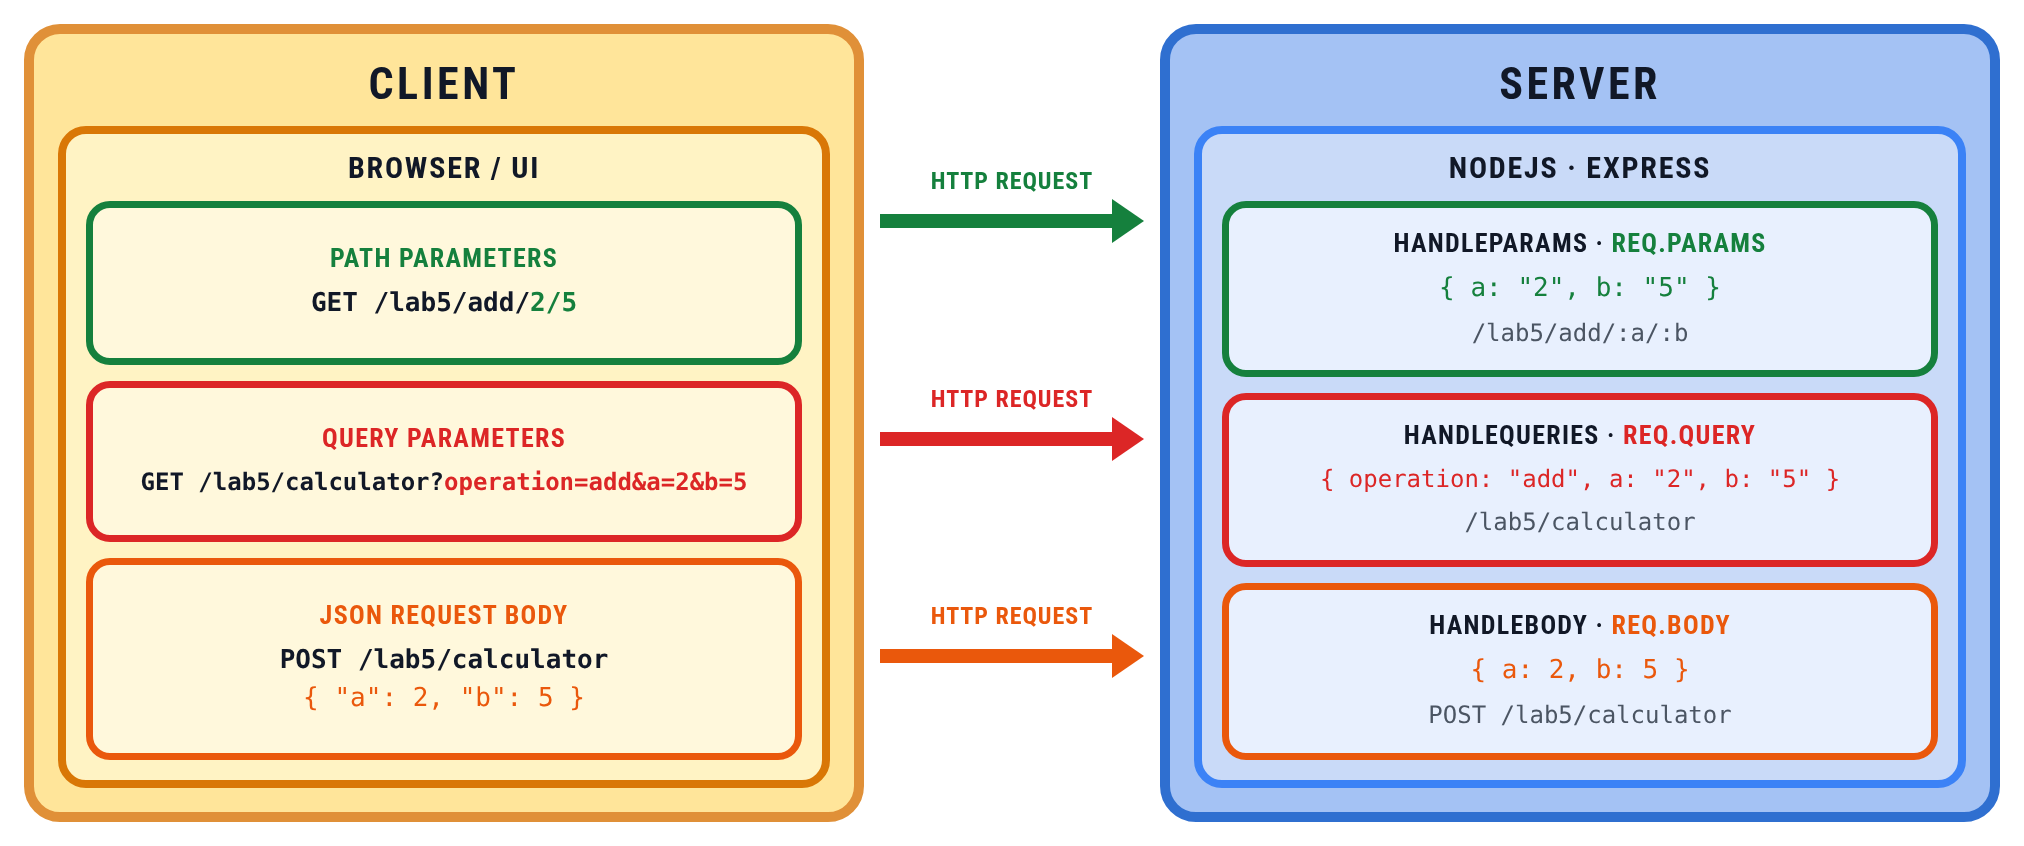
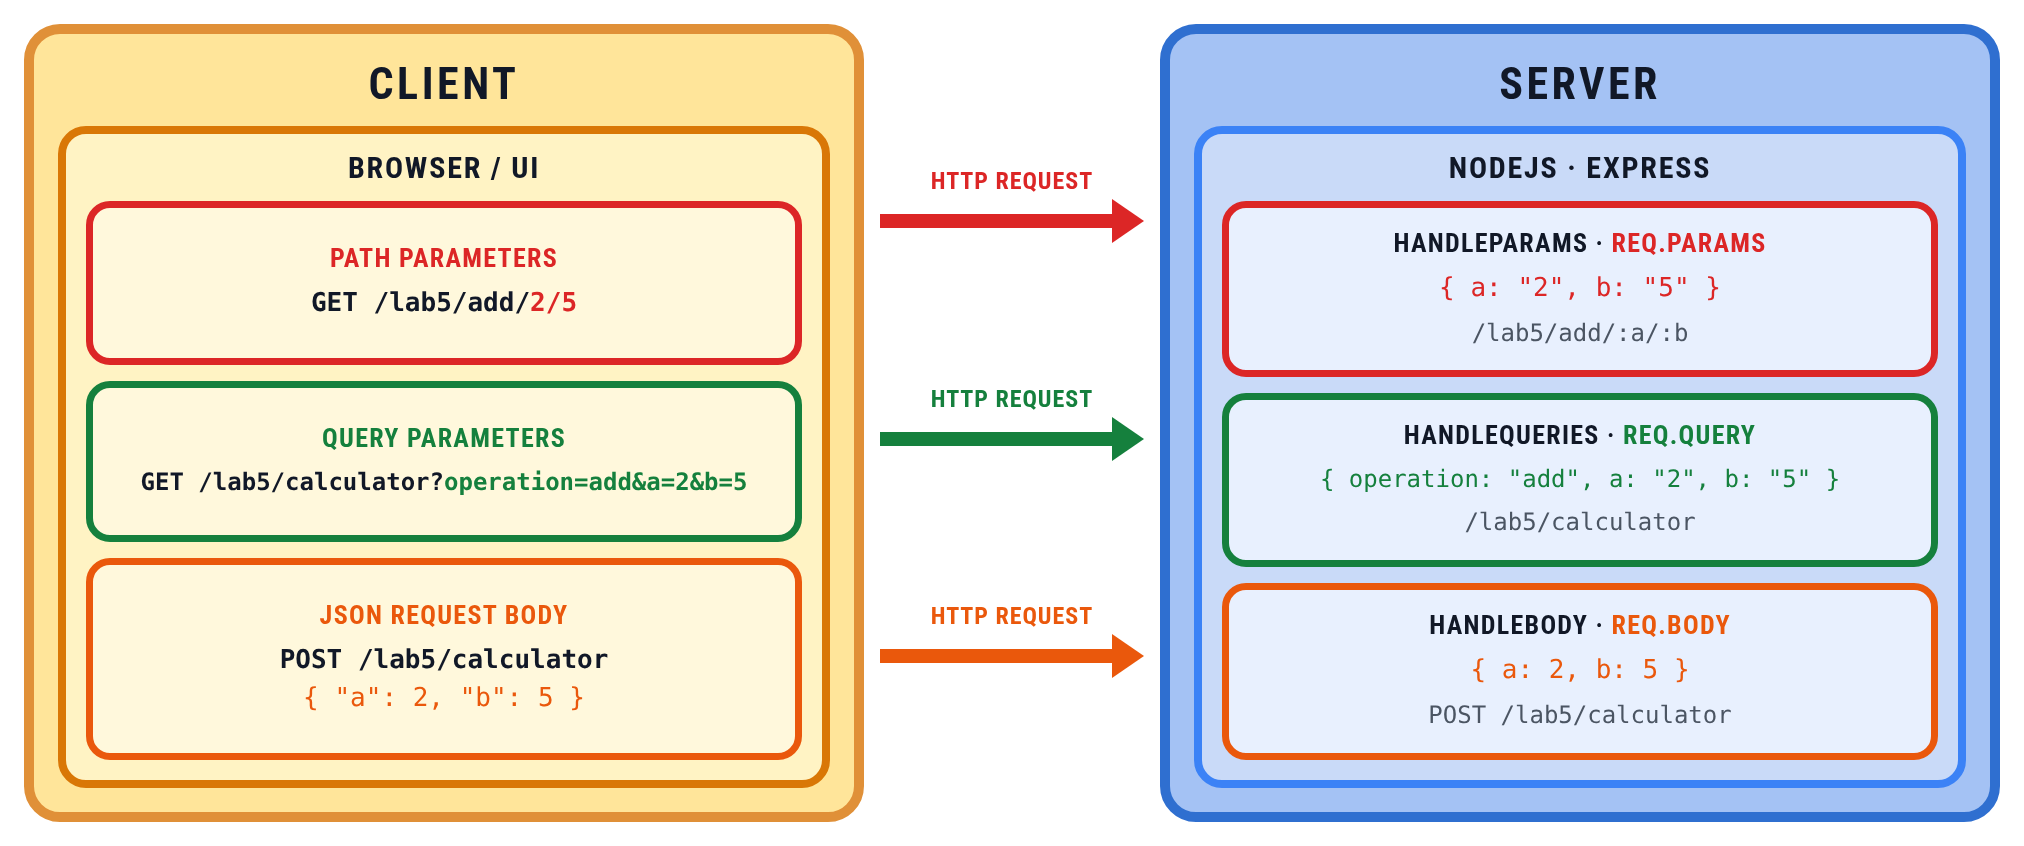
Enlarge request diagrams and split the HTTP verb bullet.
Overwrite the path-and-query overview with path in red, query in green, and body in orange. Raise the diagram cap 25% without changing bullet type, move the todos diagram onto the linking slide, and give POST, PUT, and DELETE their own bullets.

diff --git a/lib/lectures/lectures.test.ts b/lib/lectures/lectures.test.ts
@@ -3653,7 +3653,7 @@ describe("lecture decks", () => {
       ["remote-objects", "assignment-intro", "/lectures/remote-objects/remote-objects-slide4-diagram.png"],
       ["remote-objects", "title-get", "/lectures/remote-objects/remote-objects-slide7-diagram.png"],
       ["remote-objects", "title-put", "/lectures/remote-objects/remote-objects-slide9-diagram.png"],
-      ["remote-arrays", "get-all", "/lectures/remote-arrays/remote-arrays-slide2-diagram.png"],
+      ["remote-arrays", "client", "/lectures/remote-arrays/remote-arrays-slide2-diagram.png"],
       ["remote-arrays", "id-how", "/lectures/remote-arrays/remote-arrays-slide5-diagram.png"],
       ["remote-arrays", "client-filter", "/lectures/remote-arrays/remote-arrays-slide9-diagram.png"],
       ["remote-arrays", "create-delete-intro", "/lectures/remote-arrays/remote-arrays-slide10-diagram.png"],
@@ -3666,8 +3666,9 @@ describe("lecture decks", () => {
       assert.equal(slide.imageSrc, src, `${slug}#${id}`);
       assert.match(slide.imageAlt ?? "", /\S/);
     }
-    // #slide-2 is the purpose slide; the GET /lab5/todos figure belongs on get-all.
+    // #slide-2 is purpose and #slide-3 is the get-all code. The GET /lab5/todos figure is on the next slide.
     assert.equal(findSlide("remote-arrays", "purpose").imageSrc, undefined);
+    assert.equal(findSlide("remote-arrays", "get-all").imageSrc, undefined);
     const routes = getLectureDeck("next-routes")!.slides.map((slide) => slide.id);
     const hello = routes.indexOf("hello-ui");
     assert.equal(routes[hello - 1], "fetch");

diff --git a/app/book/book.css b/app/book/book.css
@@ -1065,7 +1065,8 @@ html.lecture-presenting body {
 .lecture-slide[data-flow-diagram="below"] {
   display: flex;
   flex-direction: column;
-  overflow: hidden;
+  overflow-x: hidden;
+  overflow-y: auto;
 }
 
 .lecture-slide[data-flow-diagram="below"] > :not(.lecture-flow-figure) {
@@ -1075,10 +1076,10 @@ html.lecture-presenting body {
 .lecture-slide[data-flow-diagram="below"] > .lecture-flow-figure,
 .lecture-slide[data-flow-diagram="side"] > .lecture-flow-figure {
   display: flex;
-  align-items: center;
+  align-items: flex-start;
   justify-content: center;
   min-height: 0;
-  overflow: hidden;
+  overflow: visible;
 }
 
 .lecture-slide[data-flow-diagram="below"] > .lecture-flow-figure {
@@ -1090,8 +1091,9 @@ html.lecture-presenting body {
   display: block;
   width: auto;
   height: auto;
-  max-width: 100%;
-  max-height: 100%;
+  /* 25% past the leftover-stage cap. Bullet type is unchanged. */
+  max-width: 125%;
+  max-height: 125%;
   object-fit: contain;
 }
 
@@ -1100,7 +1102,8 @@ html.lecture-presenting body {
   grid-template-columns: minmax(0, 1.58fr) minmax(220px, 0.62fr);
   column-gap: 0.75rem;
   align-items: start;
-  overflow: hidden;
+  overflow-x: hidden;
+  overflow-y: auto;
   --lecture-block-font-scale: 0.74;
 }
 

diff --git a/lib/lectures/decks/remote-arrays.ts b/lib/lectures/decks/remote-arrays.ts
@@ -37,9 +37,6 @@ export const REMOTE_ARRAYS_SLIDES: LectureSlide[] = [
       "Visit `/lab5/todos` and confirm four seed tasks",
       "Import into `Lab5/index.ts`",
     ],
-    imageSrc: "/lectures/remote-arrays/remote-arrays-slide2-diagram.png",
-    imageAlt:
-      "GET /lab5/todos reads the in-memory todos array of Task 1 through Task 4 and res.json returns that array.",
     code: `let todos = [
   { id: 1, title: "Task 1", completed: false },
   { id: 2, title: "Task 2", completed: true },
@@ -70,6 +67,9 @@ export default function WorkingWithRemoteArrays(app) {
     codeLanguage: "tsx",
     codeFile: "app/labs/lab5/WorkingWithRemoteArrays.tsx",
     codeHighlightLines: [2],
+    imageSrc: "/lectures/remote-arrays/remote-arrays-slide2-diagram.png",
+    imageAlt:
+      "GET /lab5/todos reads the in-memory todos array of Task 1 through Task 4 and res.json returns that array.",
   },
   {
     id: "id-how",

diff --git a/lib/lectures/decks/async-http.ts b/lib/lectures/decks/async-http.ts
@@ -227,7 +227,9 @@ Lab5(app);`,
     kind: "content",
     bullets: [
       "**GET** — retrieve only. We misused it for create/delete",
-      "**POST** — create. **PUT** — update. **DELETE** — remove",
+      "**POST** — create",
+      "**PUT** — update",
+      "**DELETE** — remove",
       "**OPTIONS** — the browser asks first whether the server allows those verbs from another origin",
       "Keep the older GET routes so earlier links still work",
     ],
